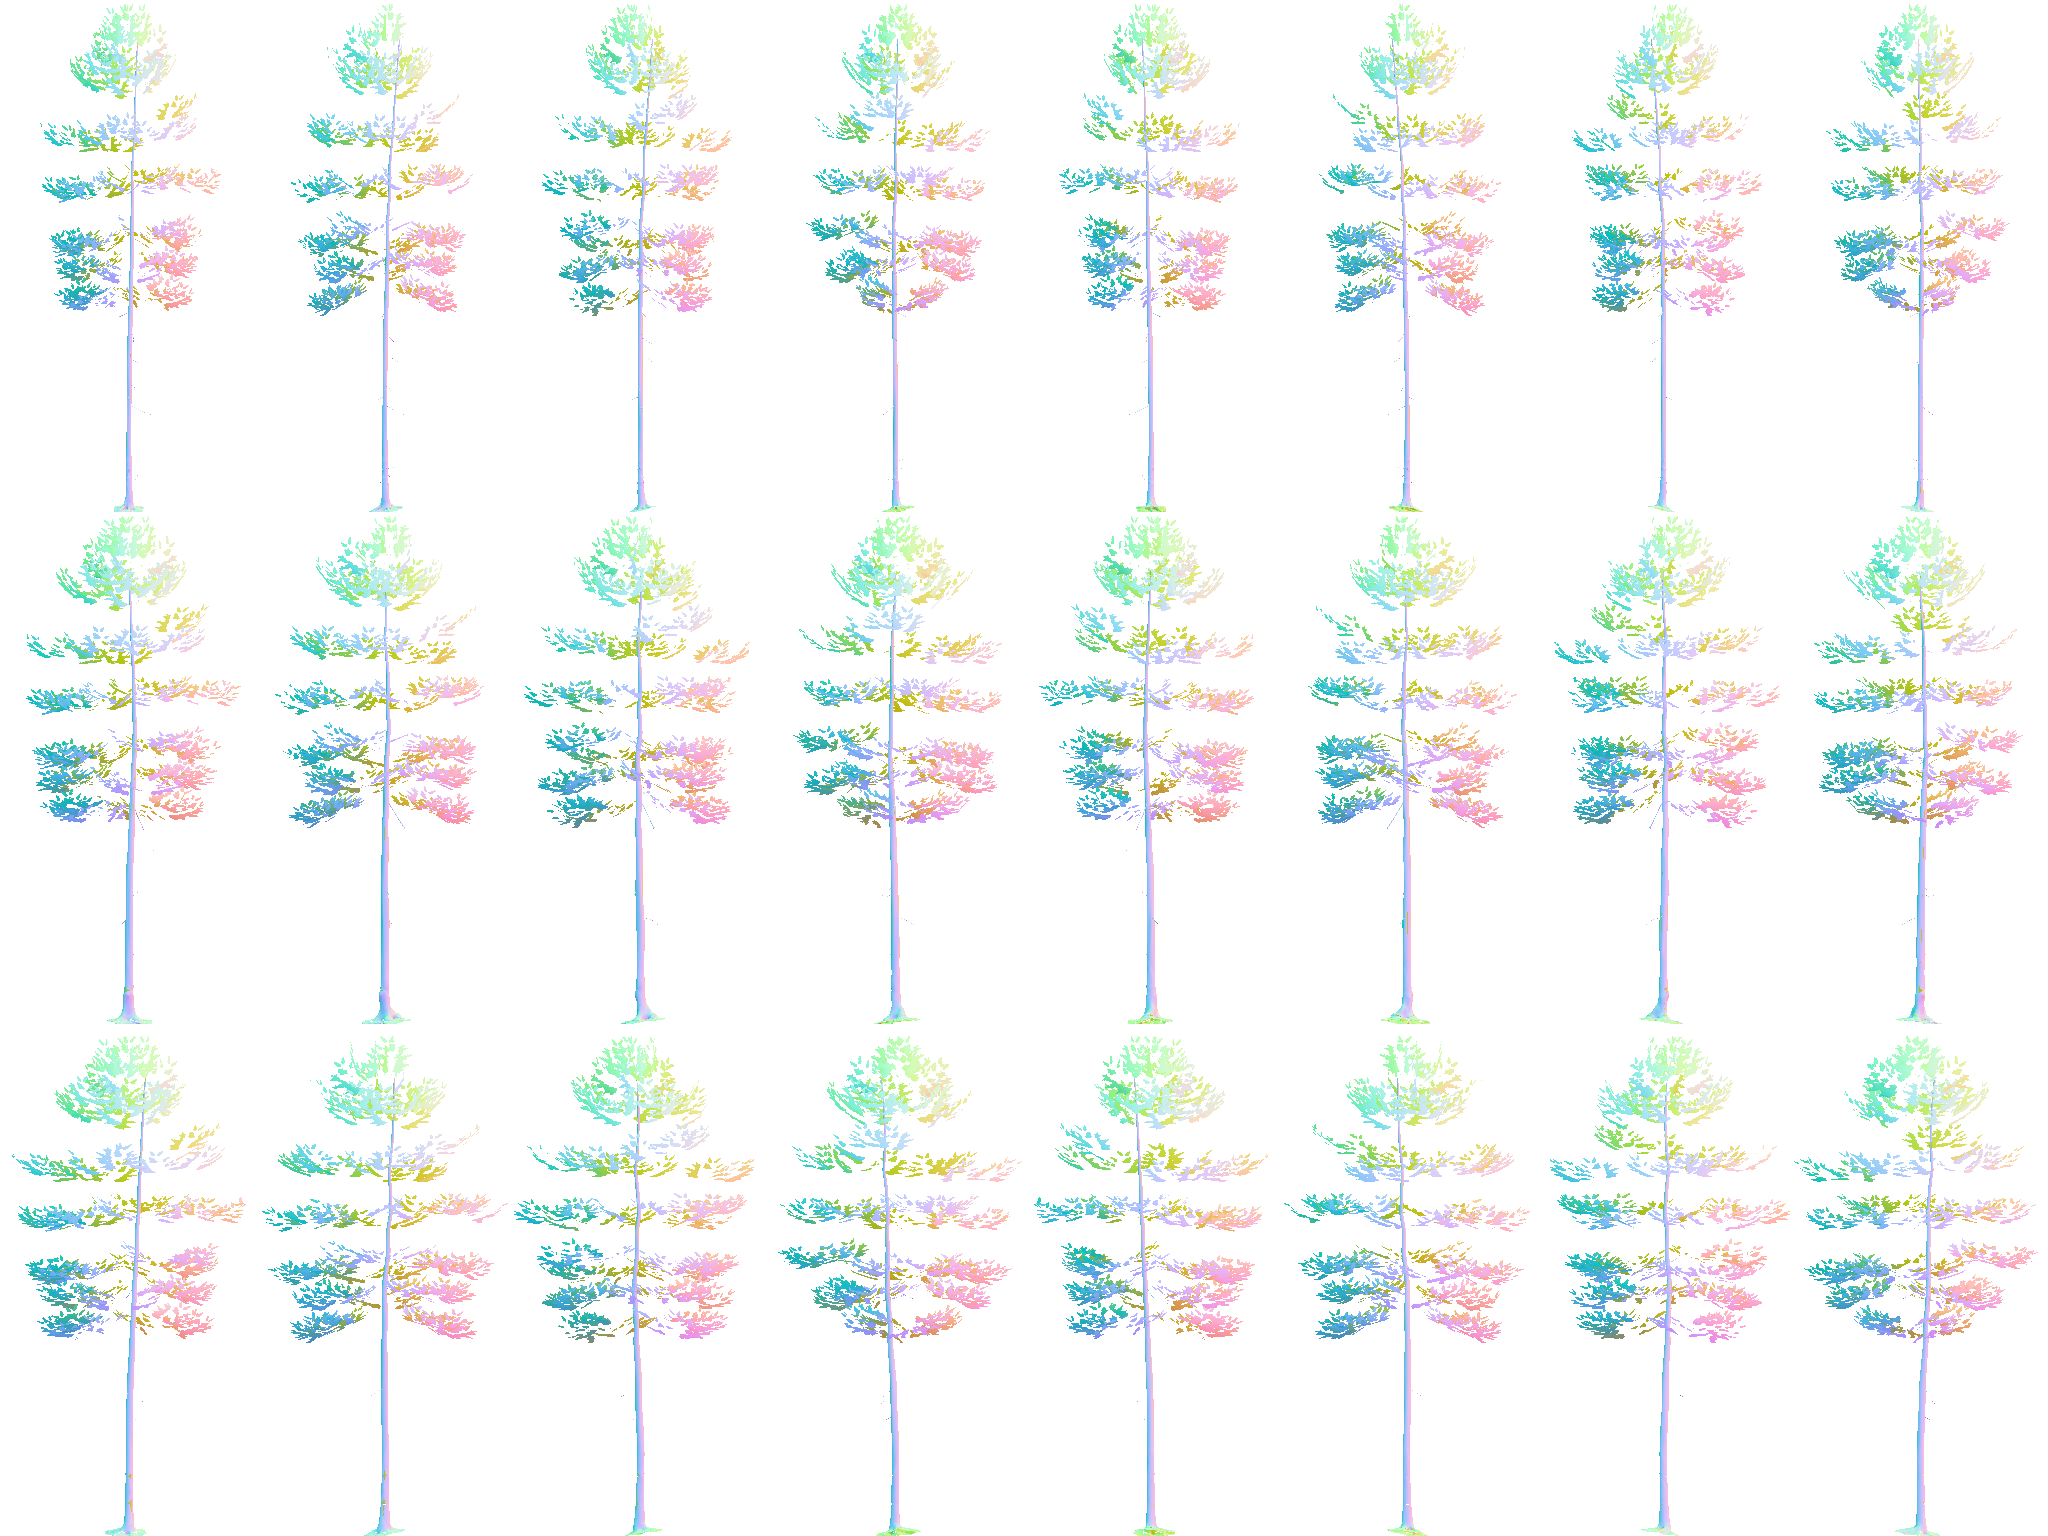
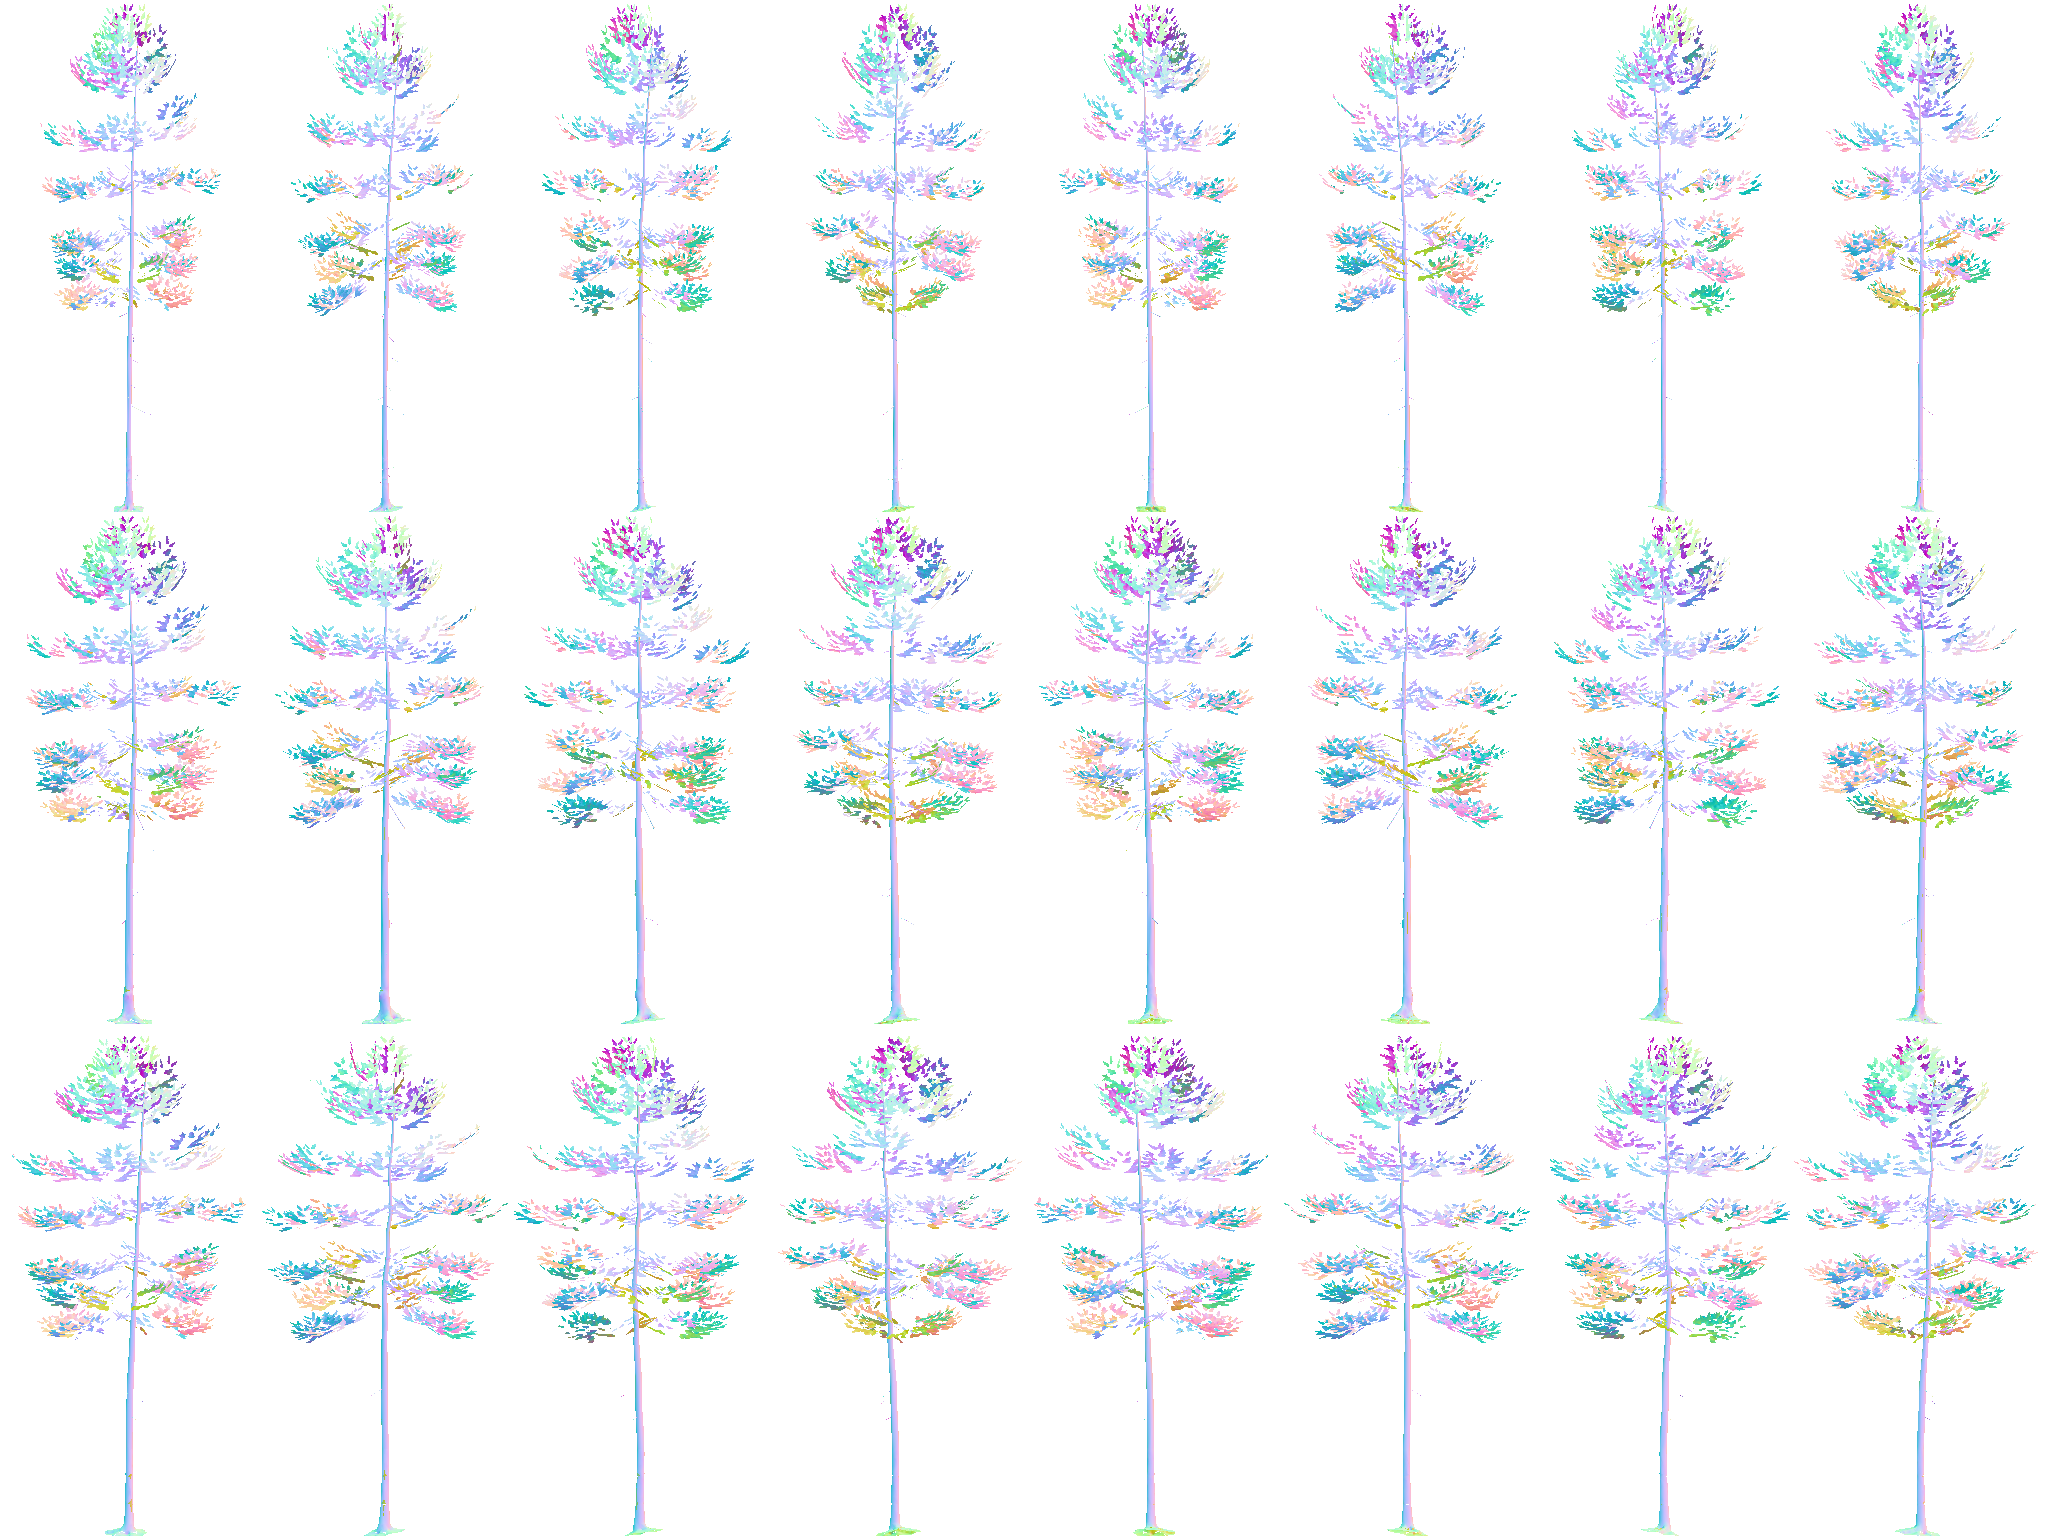
Match distant foliage normals to the authored tree crowns

diff --git a/docs/graphics-night-2026-10-21.md b/docs/graphics-night-2026-10-21.md
@@ -686,3 +686,115 @@ The four changed runtime/test files were hash-guarded and copied to staging.
 Artifacts: r23-ssao-r30-bench-20261021T234640374680Z and
 r31-validation-summary.json. Latest packaged build remains R30 until the next
 combined visual checkpoint; no claim that the old executable has this policy.
+
+
+## Round 12 resumed - production CLI reconstruction comparison
+
+The replacement CLI-only runner uses the validated R31 render-scale lifecycle
+and actual mode/scale/TAA metadata. Shared staging is unchanged. Four clear
+moving images and two wet4 images were captured with continuous fixed120
+rendering from tick1 to1600. All output is3840x2160; four-view output viewports
+are1916x1076. Native100% uses mode0/TAA; reconstructed67% uses mode2/FSR2 with
+TAA disabled and actual scale0.6700000167. The native100% default is retained.
+
+Matched native/67/67/native ABBA, current R31 including SSAO off for4 views:
+
+| Run | Internal choice | Mean ms | p95 ms | p99 ms |
+| --- | --- | ---: | ---: | ---: |
+| A1 | native100% |19.0391567|27.065|28.149|
+| B1 | FSR2 67% |15.4940325|18.303|24.079|
+| B2 | FSR2 67% |15.6517742|18.541|23.546|
+| A2 | native100% |19.4273808|27.489|28.579|
+
+Mean across runs19.2332688 versus15.5729033ms, a19.03% reduction; both paired
+orders improve. Native baseline end-to-end drift is2.04%. Mean of per-run p95
+is27.277 versus18.422ms; this is not a percentile of pooled samples. Draws rise
+from3011.9558 to3410.4858, so draw count alone does not explain total GPU cost.
+Controlled target-cadence cost is not normal free-running gameplay FPS. Neither
+choice reaches the8.33ms/120fps four-player target.
+
+Two reviewers found much less horizontal foliage smearing in the reconstructed
+endpoints and sharper wall joints, but more fine grain on vegetation/road/paint
+and a stepped yellow roof/windscreen edge. Wet-road patches, fog depth, car
+identity and HUD remain intact. Still-image gate permits continued evaluation;
+a short consecutive-frame sequence is required before recommending the choice
+on visual grounds. This is an existing optional setting, not a new accepted
+runtime change. Native4K and reconstructed4K remain separately labelled.
+
+Evidence under night: r12-cli-20261022T000429140531Z (four clear images/crops),
+r12-cli-20261022T000830571391Z (ABBA and analysis.json), and
+r12-cli-20261022T001151903032Z (wet4 pair). The legacy R12 layout-patch runner
+must not be used after the centralized render-scale implementation.
+
+## Photo-grass early prototypes - held for combined validation
+
+R25 original24cm six-triangle photographed clumps were too low and dark.
+R25b36cm improves coverage but nominal card area is2.25x, so a triangle-count
+reduction does not establish a speedup. R25c changes only ALBEDO root factor
+.45 to.8, retaining AO.45, height, density, wind and wetness. Both reviewers
+prefer its cleaner root/soil blend. Repeated rounded clumps and coarse old
+GroundCover blades remain; screenshots are endpoints, not temporal proof.
+
+These early variants use the deliberately frozen older R22 tree baseline.
+A separate combined GrassField/static-GroundCover trial is prepared from R31
+with its current crowns/SSAO policy and proper independent static shader.
+No photographed-grass candidate is promoted yet. Original photo maps are
+Poly Haven Grass Medium01, CC0, credited to Rico Cilliers and Rob Tuytel;
+provenance and packaged notice accompany the candidate. See R25/R25b/R25c
+isolated folders and grass-combined-candidate-20261022 for exact artifacts.
+
+
+## Round 33 - match distant foliage normals to the authored crown
+
+The baker now samples the actual foliage normal texture using the same signed
+RG/positive-Z tangent-frame convention as near foliage. The far-tree shader
+unpacks all three signed atlas axes, reverses the selected atlas-cell rotation
+and uses the actual instance basis captured in the vertex stage. Normal atlas
+and both shaders must be kept together. Wood mapping and nonuniform-Y foliage
+remain approximations; this does not claim exact near/far shading identity.
+
+Two independent 24-cell bakes were byte-identical. Albedo remains exactly the
+accepted original and paired alpha is binary and exact. New normal PNG SHA256:
+aa41b88e7f2e65fb0fe0566e11e7c0f0a2cd4c9ada4172e89984e0141cb05dc7.
+Actual shader probe, four early images and eight clear/wet/mist moving images
+passed review. Two reviewers retained the more legible dark crown interiors.
+A further 26 matched approach frames included seven consecutive drawn frames;
+no new flash, black flip or silhouette hole was observed there. The recorded
+camera path matches exactly. Tree identities/origins and selected atlas cells
+were not logged, so this is not proof of a particular LOD or atlas-cell crossing.
+Existing pale near branches and TAA history streaks remain.
+
+Isolated R30/SSAO-on ABBA means22.7064/22.6491ms baseline versus22.6910/22.1267ms
+candidate: averages22.6777 versus22.4089ms (-1.19%). This small result is treated
+as neutral, not a robust speedup. Per-run p95 averages30.086 versus29.669ms;
+draws3012.37 and engine primitive counters match. Do not compare those costs
+directly with R31's automatic SSAO policy.
+
+At2026-10-22T00:54Z the three codefiles and exact normal atlas were promoted to
+source and staging after guards verified the original code, six tree meshes,
+Forest setup, near shader, both authored leaf textures and import settings.
+Original bytes and EOLs are preserved in r33-promotion-20261022T005403Z.
+Full repository validation and a fresh Windows export are the remaining gates.
+Evidence: normal-contract-isolated/runs/{early-20261021T235056860132Z,
+extended-20261022T001404368663Z,bench-20261022T002212415906Z};
+pine-crown-proof-20261022-001304/normal-contract-R30-sequence-20261022T002649308917Z.
+
+Combined photographed GrassField/GroundCover early4 on R31 completed separately
+in grass-combined-isolated/runs/early-20261022T003703715721Z. Fine blades improve
+wall/soil contact and remove broad polygon tufts. Dark rounded repetition remains,
+so no production promotion yet. The next isolated variant raises the same cards
+from.36 to.50m while holding their exact width; card area rises38.9% and cost is
+unproven. Texture analysis correctly normalizes the16-bit alpha before cutoff.
+
+R12 motion captured64 consecutive frames for each of native100/FSR67 in1p/4p:
+256 actual3840x2160 images, ticks1504-1630 with exact camera/progress matches
+and actual mode/scale/TAA metadata. Source/staging were unchanged during capture.
+These readback/PNG-encoding runs are visual evidence only, not timing samples.
+Artifacts: r12-motion-20261022T004021376692Z. Detailed temporal review pending.
+
+R33 full validation passed on the frozen240Hz/two-substep basis, including
+48 normal/CLI viewport cases, handling,45k simulation and lifecycle. Handling
+and simulation match R31. Incoming85b5e72 was then discovered on origin/main:
+it independently changes world physics to120Hz/four tyre substeps. Integrate
+and revalidate that changed basis before the next export. Graphics A/B evidence
+above retains its original240/2 basis; no physics benefit is attributed to it.
